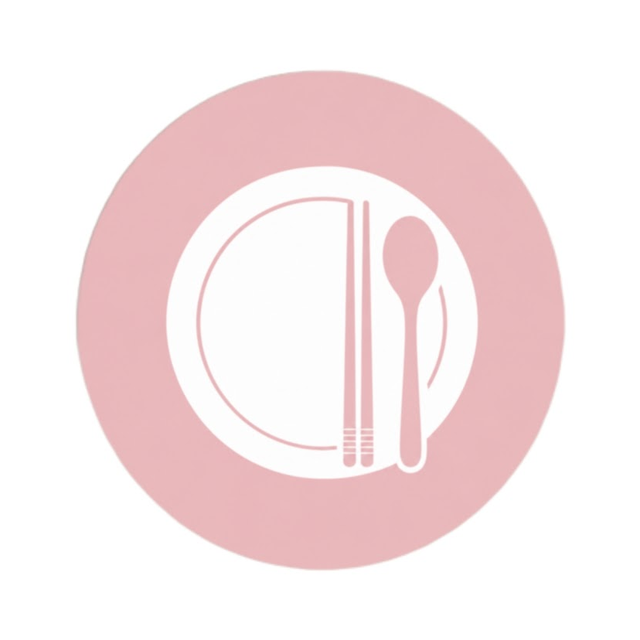
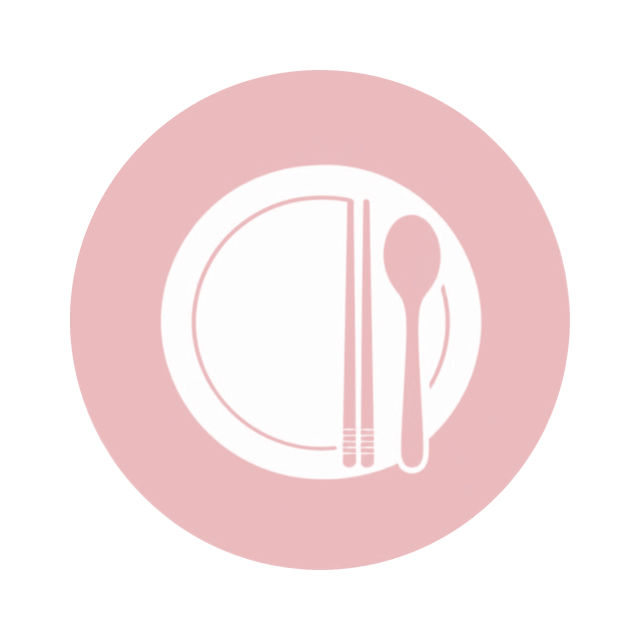
fix: SPARK 系列圖示大小與顏色統一對齊 SPARK WEAR
- SPARK LIST、LOG、SHAPE、PLATE 改為白底、圓形直徑 500px 置中、霧粉色
- 圖示網址加上版本號避免瀏覽器快取舊圖

diff --git a/apps.html b/apps.html
@@ -286,7 +286,7 @@
     <!-- SPARK LIST -->
     <article class="app-entry" id="spark-list">
       <div class="app-entry__icon">
-        <img src="images/icon-spark-list.png" alt="SPARK LIST 圖示" loading="lazy">
+        <img src="images/icon-spark-list.png?v=2" alt="SPARK LIST 圖示" loading="lazy">
       </div>
       <div class="app-entry__body">
         <h2 class="app-entry__name">SPARK LIST</h2>
@@ -355,7 +355,7 @@
     <!-- SPARK LOG -->
     <article class="app-entry" id="spark-log">
       <div class="app-entry__icon">
-        <img src="images/icon-spark-log.png" alt="SPARK LOG 圖示" loading="lazy">
+        <img src="images/icon-spark-log.png?v=2" alt="SPARK LOG 圖示" loading="lazy">
       </div>
       <div class="app-entry__body">
         <h2 class="app-entry__name">SPARK LOG</h2>
@@ -423,7 +423,7 @@
     <!-- SPARK SHAPE -->
     <article class="app-entry" id="spark-shape">
       <div class="app-entry__icon">
-        <img src="images/icon-spark-shape.png" alt="SPARK SHAPE 圖示" loading="lazy">
+        <img src="images/icon-spark-shape.png?v=2" alt="SPARK SHAPE 圖示" loading="lazy">
       </div>
       <div class="app-entry__body">
         <h2 class="app-entry__name">SPARK SHAPE</h2>
@@ -493,7 +493,7 @@
     <!-- SPARK PLATE -->
     <article class="app-entry" id="spark-plate">
       <div class="app-entry__icon">
-        <img src="images/icon-spark-plate.png" alt="SPARK PLATE 圖示" loading="lazy">
+        <img src="images/icon-spark-plate.png?v=2" alt="SPARK PLATE 圖示" loading="lazy">
       </div>
       <div class="app-entry__body">
         <h2 class="app-entry__name">SPARK PLATE</h2>

diff --git a/index.html b/index.html
@@ -101,7 +101,7 @@
 
       <article class="card">
         <div class="card__icon">
-          <img src="images/icon-spark-plate.png" alt="SPARK PLATE 圖示" loading="lazy">
+          <img src="images/icon-spark-plate.png?v=2" alt="SPARK PLATE 圖示" loading="lazy">
         </div>
         <h3 class="card__name">SPARK PLATE</h3>
         <p class="card__name-zh">心動餐盤</p>
